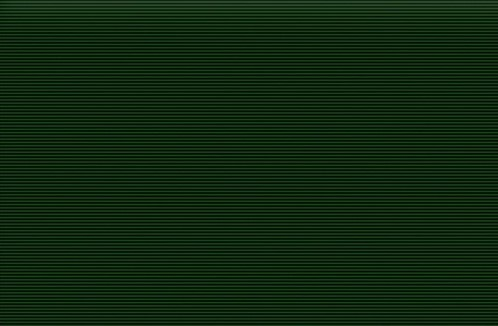
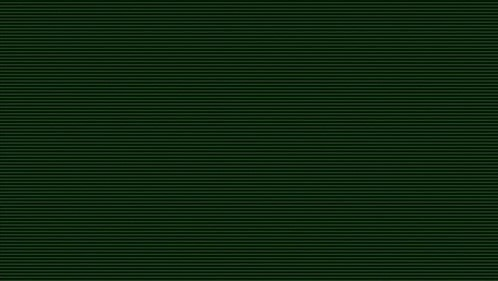
mobile styling and background img fix

diff --git a/src/components/MyWorksComponent.vue b/src/components/MyWorksComponent.vue
@@ -6,7 +6,7 @@
         <span class="divider"></span>
       </div>
     </div>
-    <div class="row">
+    <div class="row works-expand">
 
       <div class="col-xl-4 col-md-6 col-sm-12 my-5 d-flex justify-content-center">
         <a href="https://github.com/EricTimRussell/Tower" target="_blank">
@@ -161,6 +161,104 @@ a {
   width: 30vh;
   display: cover;
 }
+
+.works-expand {
+  -webkit-animation: works-expand 1.5s cubic-bezier(0.225, 0.600, 0.350, 1.000) both;
+  animation: works-expand 1.5s cubic-bezier(0.225, 0.600, 0.350, 1.000) both;
+}
+
+@-webkit-keyframes works-expand {
+  0% {
+    opacity: 0;
+  }
+
+  15% {
+    opacity: 0.15;
+  }
+
+  25% {
+    opacity: 0.25;
+  }
+
+  35% {
+    opacity: 0.35;
+  }
+
+  45% {
+    opacity: 0.45;
+  }
+
+  55% {
+    opacity: 0.55;
+  }
+
+  65% {
+    opacity: 0.65;
+  }
+
+  75% {
+    opcaity: 0.75;
+  }
+
+  85% {
+    opcaity: 0.85;
+  }
+
+  95% {
+    opcaity: 0.95;
+  }
+
+  100% {
+    opacity: 1;
+  }
+}
+
+@keyframes works-expand {
+  0% {
+    opacity: 0;
+  }
+
+  15% {
+    opacity: 0.15;
+  }
+
+  25% {
+    opacity: 0.25;
+  }
+
+  35% {
+    opacity: 0.35;
+  }
+
+  45% {
+    opacity: 0.45;
+  }
+
+  55% {
+    opacity: 0.55;
+  }
+
+  65% {
+    opacity: 0.65;
+  }
+
+  75% {
+    opcaity: 0.75;
+  }
+
+  85% {
+    opcaity: 0.85;
+  }
+
+  95% {
+    opcaity: 0.95;
+  }
+
+  100% {
+    opacity: 1;
+  }
+}
+
 
 @media (max-width: 1770px) {
   .tower {

diff --git a/src/components/MoreComponent.vue b/src/components/MoreComponent.vue
@@ -11,7 +11,7 @@
       </div>
     </div>
     <div class="row justify-content-center" v-if="!isLoading">
-      <div class="col-2 text-retro pt-4">
+      <div class="col-12 text-retro pt-4">
         <h2 class="mx-2 text-center">Current Project</h2>
         <a class=" d-flex justify-content-center" target="_blank" href="https://github.com/EricTimRussell/riskierFire">
           <img class="riskier-2 my-4" src="../assets/images/More/addressBarImage.jpg" alt="riskier version 2">

diff --git a/src/components/SkillsComponent.vue b/src/components/SkillsComponent.vue
@@ -105,6 +105,14 @@ export default {
   animation-duration: 3s;
   animation-delay: 2s;
   animation-fill-mode: both;
+  -moz-animation-name: skills-slide;
+  -moz-animation-duration: 3s;
+  -moz-animation-delay: 2s;
+  -moz-animation-fill-mode: both;
+  -webkit-animation-name: skills-slide;
+  -webkit-animation-duration: 3s;
+  -webkit-animation-delay: 2s;
+  -webkit-animation-fill-mode: both;
   white-space: nowrap;
   overflow: hidden;
 }

diff --git a/src/components/HeroComponent.vue b/src/components/HeroComponent.vue
@@ -1,5 +1,5 @@
 <template>
-  <header id="hero" class="container-fluid">
+  <header class="container-fluid">
     <div class="row pt-3">
       <div class="col-4 d-flex justify-content-between header-border">
         <span class="status-bar text-retro">LVL</span>
@@ -164,7 +164,7 @@ export default {
 
   .hero-anim-motto {
     white-space: normal;
-    text-align: center;
+    text-align: left;
   }
 
 }

diff --git a/src/assets/main.css b/src/assets/main.css
@@ -1,9 +1,9 @@
-main {
+body {
   background-color: #00000098;
   font-family: Impact, Haettenschweiler, 'Arial Narrow Bold', sans-serif;
   background-image: url(../assets/images/pipboybackground.jpg);
-  background-repeat: no-repeat;
-  background-size: cover;
+  /* background-repeat: no-repeat; */
+  background-size: contain;
 }
 
 /* SECTION Navbar */

diff --git a/src/components/AboutComponent.vue b/src/components/AboutComponent.vue
@@ -1,5 +1,5 @@
 <template>
-  <section id="about" class="container-fluid">
+  <section class="container-fluid">
     <div class="row mobile justify-content-center">
       <div class="col-12 d-flex flex-column align-items-center">
         <h2 class="text-retro fs-xl d-flex letter-space about-title anim-typewriter">ABOUT ME</h2>
